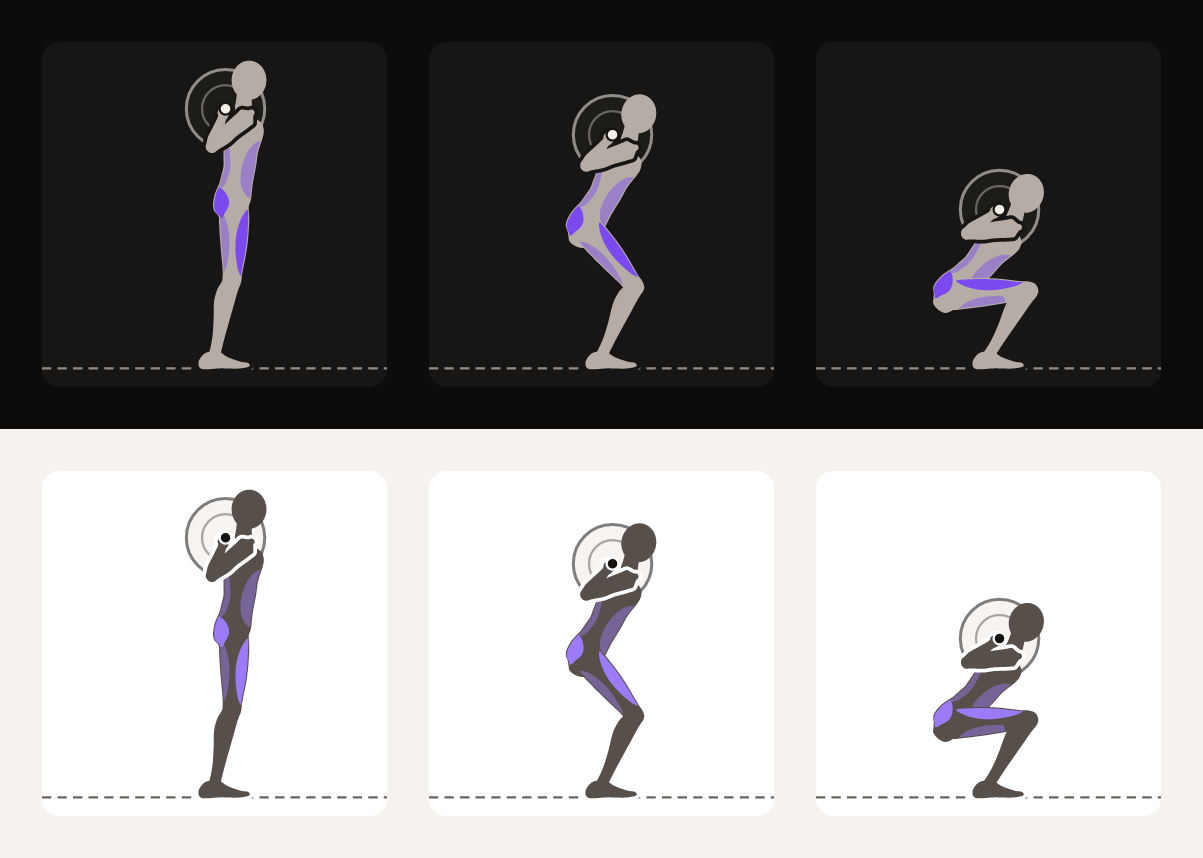
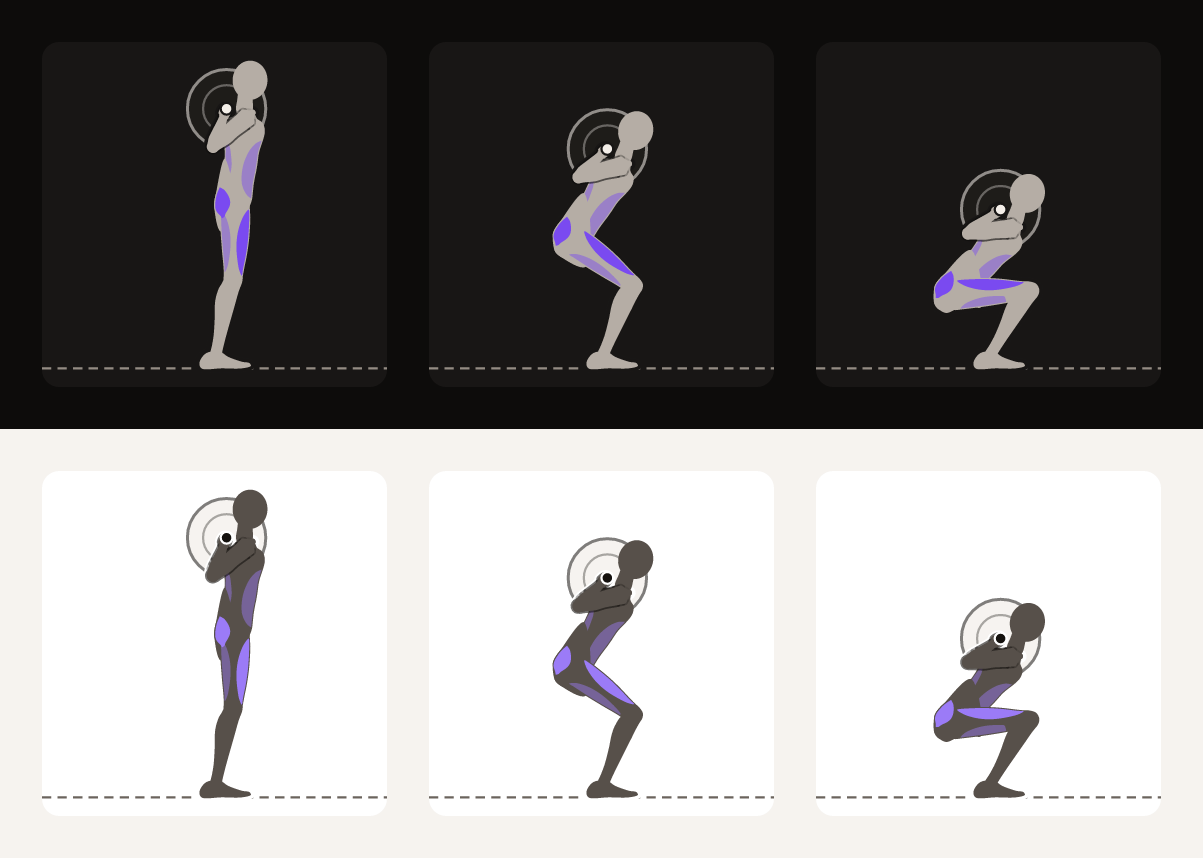
Squat guide: leg drive, front-loaded descent and its own ascent poses (no knee stall, shin and knee in step)
Claude-Session: https://claude.ai/code/session_01WQGwPu3Uq9qS169xjbbsDx

diff --git a/packages/catalogue/test/figure.test.ts b/packages/catalogue/test/figure.test.ts
@@ -388,9 +388,9 @@ describe('guide checks', () => {
     expect(failed(squatRaw(), { bytes: 9000 })).toEqual(['file-size']);
     expect(failed(squatRaw(), { dirKey: 'barbell-front-squat' })).toEqual(['exercise-match']);
     const keys = structuredClone(squatRaw().keyframes) as Record<string, unknown>[];
-    const noCaption = keys.map((k, i) => (i === 2 ? { ...k, caption: undefined } : k));
+    const noCaption = keys.map((k) => (k.label === 'Halfway' ? { ...k, caption: undefined } : k));
     expect(failed({ ...squatRaw(), keyframes: JSON.parse(JSON.stringify(noCaption)) as unknown })).toEqual(['captions']);
-    const relabelled = keys.map((k, i) => (i === 2 ? { ...k, label: 'Hole' } : k));
+    const relabelled = keys.map((k) => (k.label === 'Halfway' ? { ...k, label: 'Hole' } : k));
     expect(failed({ ...squatRaw(), keyframes: relabelled })).toEqual(['key-positions']);
     const open = keys.map((k, i) => (i === keys.length - 1 ? { t: 1, root: { y: 0.45 } } : k));
     expect(failed({ ...squatRaw(), keyframes: open })).toContain('loop-continuity');
@@ -401,12 +401,13 @@ describe('guide checks', () => {
     if (keys[0]?.ik) keys[0].ik.footNear = null;
     if (keys[0]?.joints) Object.assign(keys[0].joints, { hipNear: 0, kneeNear: -30 });
     const checks = { ...(squatRaw().checks as object), romSkip: { angles: ['kneeNear'], reason: 'test reason' } };
-    const r = checkGuide({ raw: { ...squatRaw(), keyframes: keys, checks }, bytes: 2000, dirKey: 'barbell-back-squat', entry: squatEntry() });
+    // The leg drive needs a planted near foot at every key; this fixture takes it off.
+    const r = checkGuide({ raw: { ...squatRaw(), drive: undefined, keyframes: keys, checks }, bytes: 2000, dirKey: 'barbell-back-squat', entry: squatEntry() });
     const rom = r.items.find((i) => i.id === 'rom');
     expect(rom?.ok).toBe(true);
     expect(rom?.detail).toContain('test reason');
     const other = { ...checks, romSkip: { angles: ['kneeFar'], reason: 'test reason' } };
-    expect(failed({ ...squatRaw(), keyframes: keys, checks: other })).toContain('rom');
+    expect(failed({ ...squatRaw(), drive: undefined, keyframes: keys, checks: other })).toContain('rom');
   });
 
   it('catches bar drift, unreachable planted feet and hyperextension', () => {
@@ -419,7 +420,7 @@ describe('guide checks', () => {
     const hyper = structuredClone(keys);
     if (hyper[0]?.ik) hyper[0].ik.footNear = null;
     if (hyper[0]?.joints) Object.assign(hyper[0].joints, { hipNear: 0, kneeNear: -30 });
-    expect(failed({ ...squatRaw(), keyframes: hyper })).toContain('rom');
+    expect(failed({ ...squatRaw(), drive: undefined, keyframes: hyper })).toContain('rom');
   });
 
   it('every committed guide passes and its meta.json is current-format', () => {
@@ -466,8 +467,8 @@ describe('SVG output and style', () => {
     expect(pose.shapes.some((s) => s.kind === 'capsule' && s.paint === 'nearBody')).toBe(false);
     const ops = frameOps(pose, { px: 240, camera: fitCamera(prepared) });
     const bodyFills = ops.filter((o) => o.kind === 'path' && o.fill === 'nearBody');
-    // Trunk (with neck and head), near leg (thigh, shank, shoe), near arm (upper arm, forearm, fist, thumb).
-    expect(bodyFills.map((o) => (o.kind === 'path' ? o.contours.length : 0))).toEqual([3, 3, 4]);
+    // Trunk (with neck and head), near leg (hip fillet, thigh, shank, shoe), near arm (upper arm, forearm, fist, thumb).
+    expect(bodyFills.map((o) => (o.kind === 'path' ? o.contours.length : 0))).toEqual([3, 4, 4]);
     expect(bodyFills.every((o) => o.kind === 'path' && o.smooth)).toBe(true);
     const svg = renderSvg(pose, { px: 240, style, camera: fitCamera(prepared) });
     // The plate rim is a soft `frame` ring behind the body (it ringed the head when stroked in `implement`).

diff --git a/packages/catalogue/test/playback.test.ts b/packages/catalogue/test/playback.test.ts
@@ -109,7 +109,7 @@ describe('key-frame stops (the Reduce Motion frames)', () => {
       [3, 'Bottom'],
     ]);
     expect(stops[2]?.caption).toBe('Hips just below knees, heels down');
-    expect(stops.map((s) => s.t)).toEqual([0, 0.2424, 0.5714]);
+    expect(stops.map((s) => s.t)).toEqual([0, 0.28, 0.5714]);
   });
 
   it('match the catalogue entry key positions for every bundled guide', () => {
